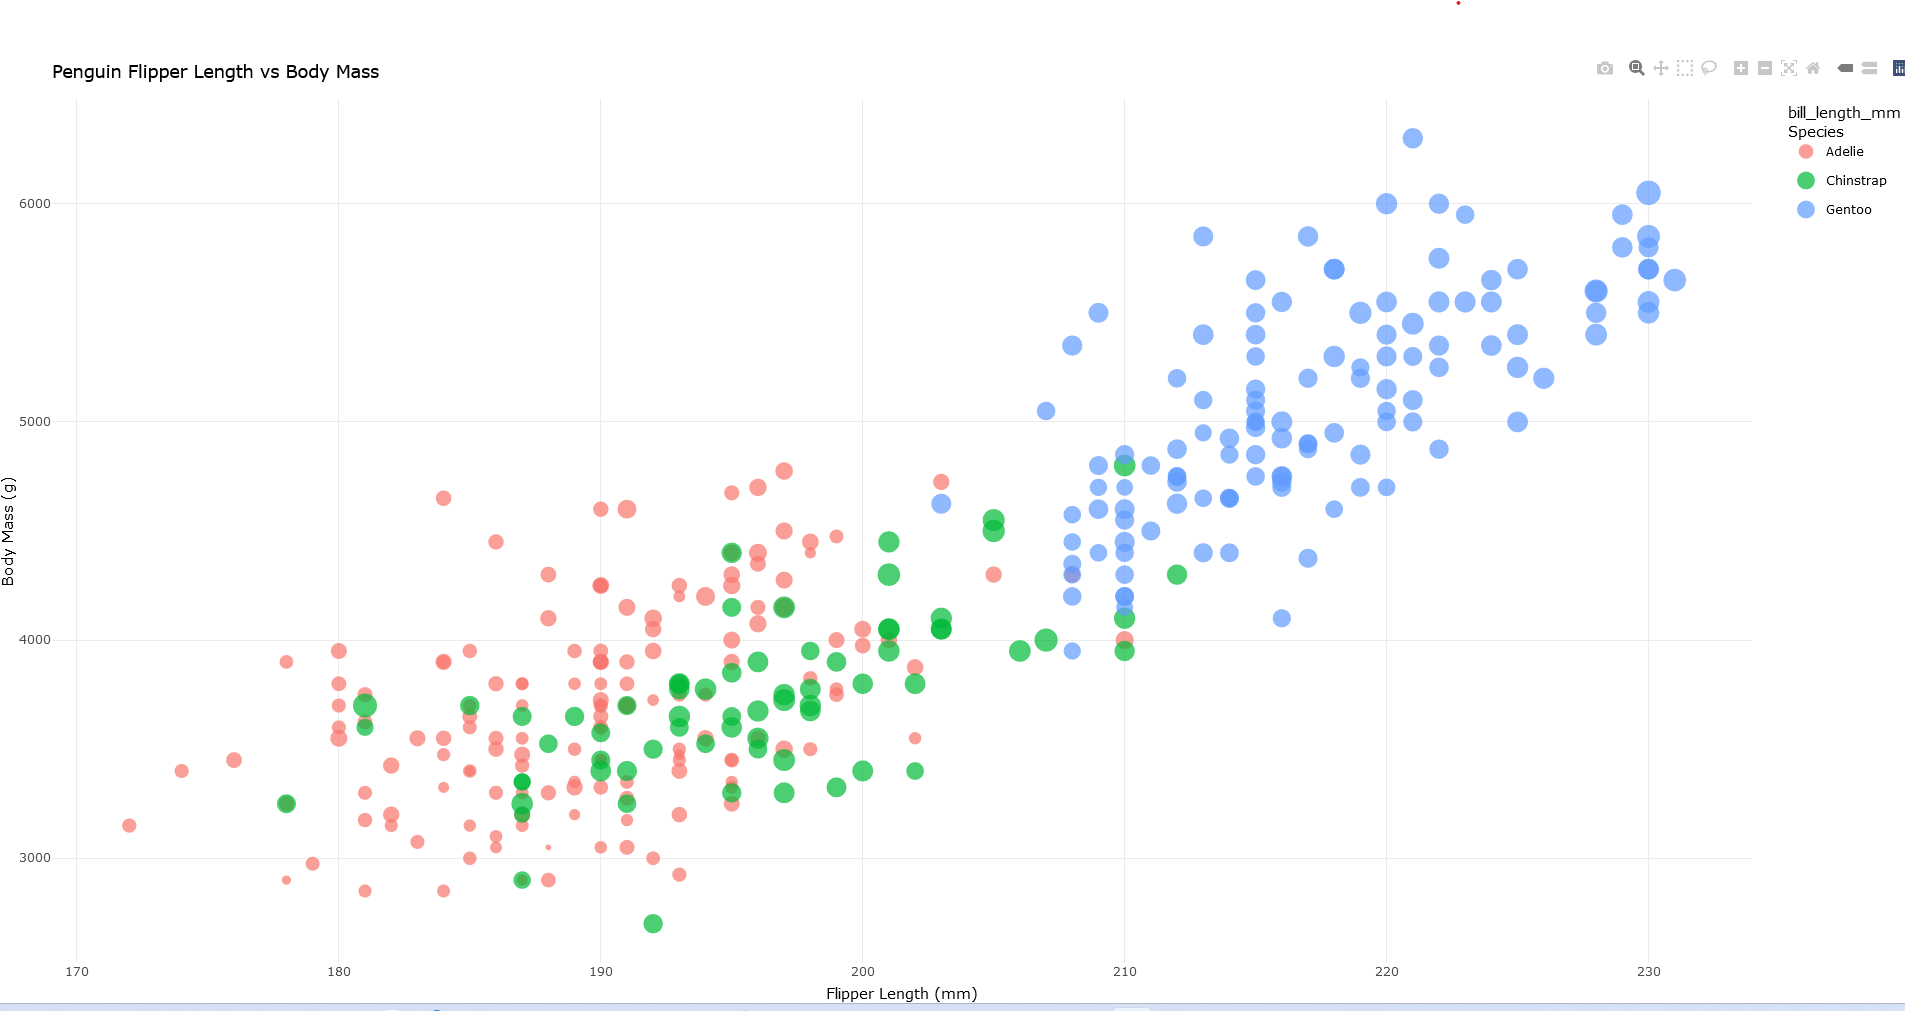
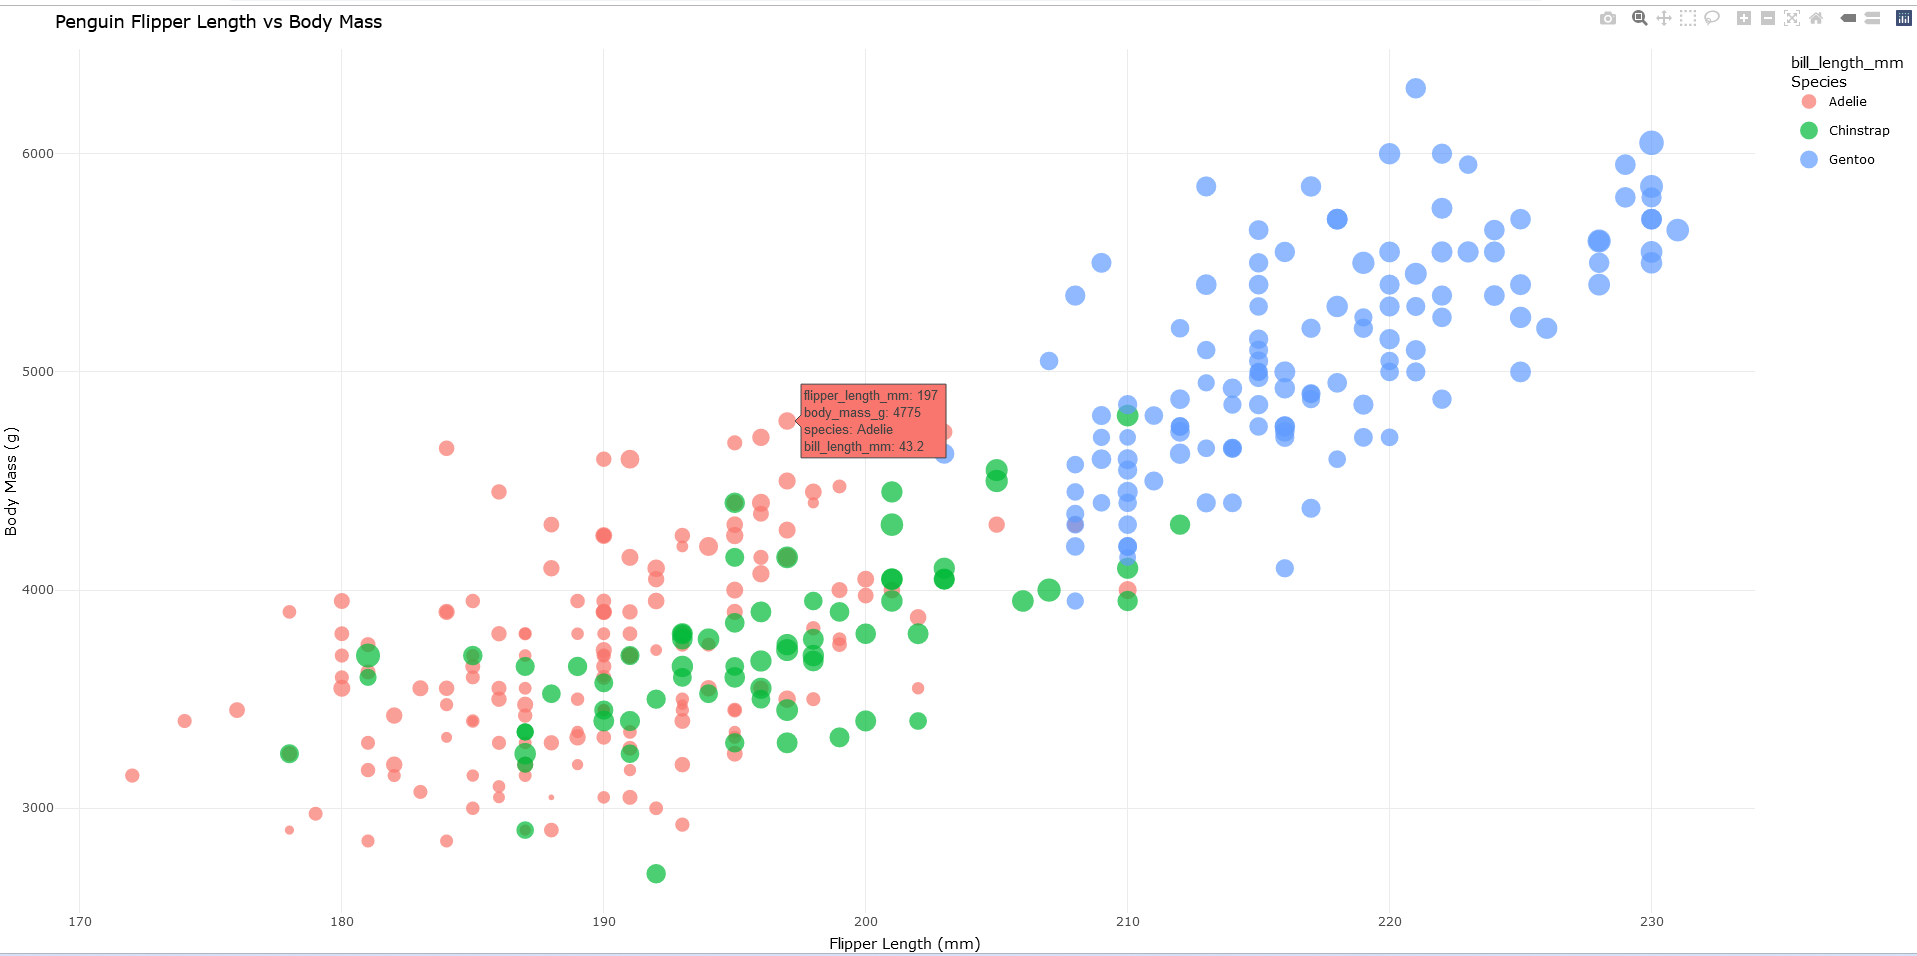
technical acheivements

diff --git a/README.md b/README.md
@@ -44,6 +44,25 @@ The final tool I used was Flourish, a web-based data vis platform with many visu
 # Technical Acheivements
 I worked to make as many of the graphs interactive to some degree. Some of the tools had the ability to do it on their own, others I had to add it in manually. Here are some screenshots of the results:
 
+
+
+d3 and js: Created a mouse event to hover/unhover a box with text inside of it
 ![](technical_img/tech_d3_js.png)
 
-Created a mouse event to hover/unhover a box with text inside of it
+
+R and ggplot2: Added feature that converted ggplot to 'plotly' which had functionality for hovering
+![](technical_img/tech_ggplot2.png)
+
+
+Python and MatplotLib: Added MLPCursors import to get hover functionality
+![](technical_img/tech_matplotlib.png)
+
+Vega-Lite: Used existing tooltip functionality to add a tooltip and populate with data fields
+![](technical_img/tech_matplotlib.png)
+
+Tableau: Functionality already existed
+![](technical_img/tech_tableau.png)
+
+Flourish: Functionality already existed
+![](technical_img/tech_tableau.png)
+
